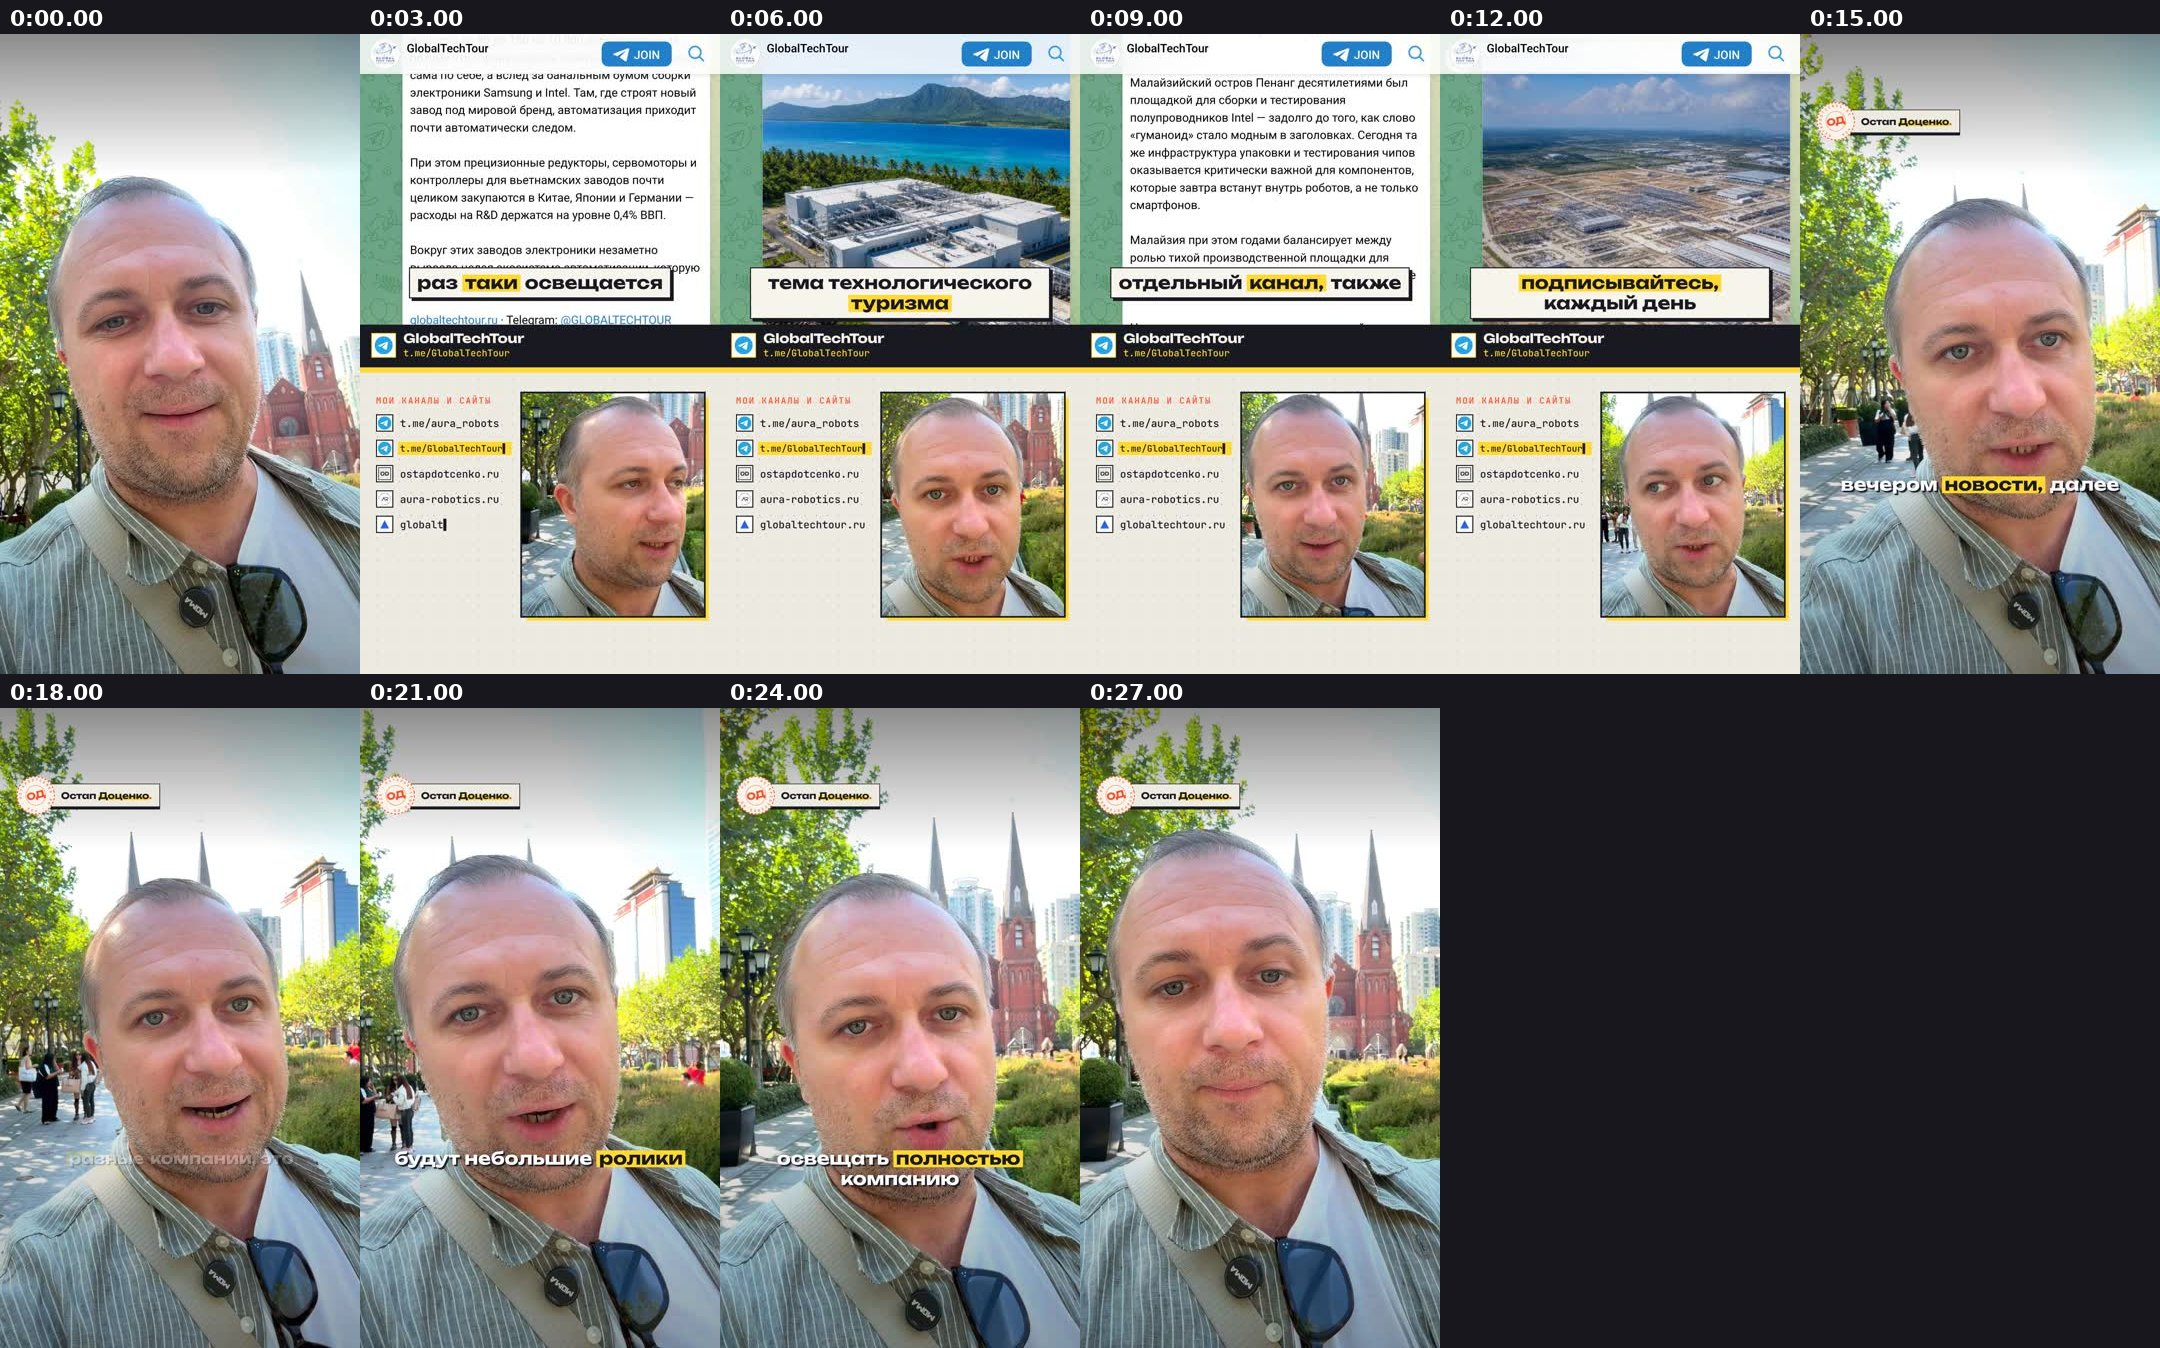
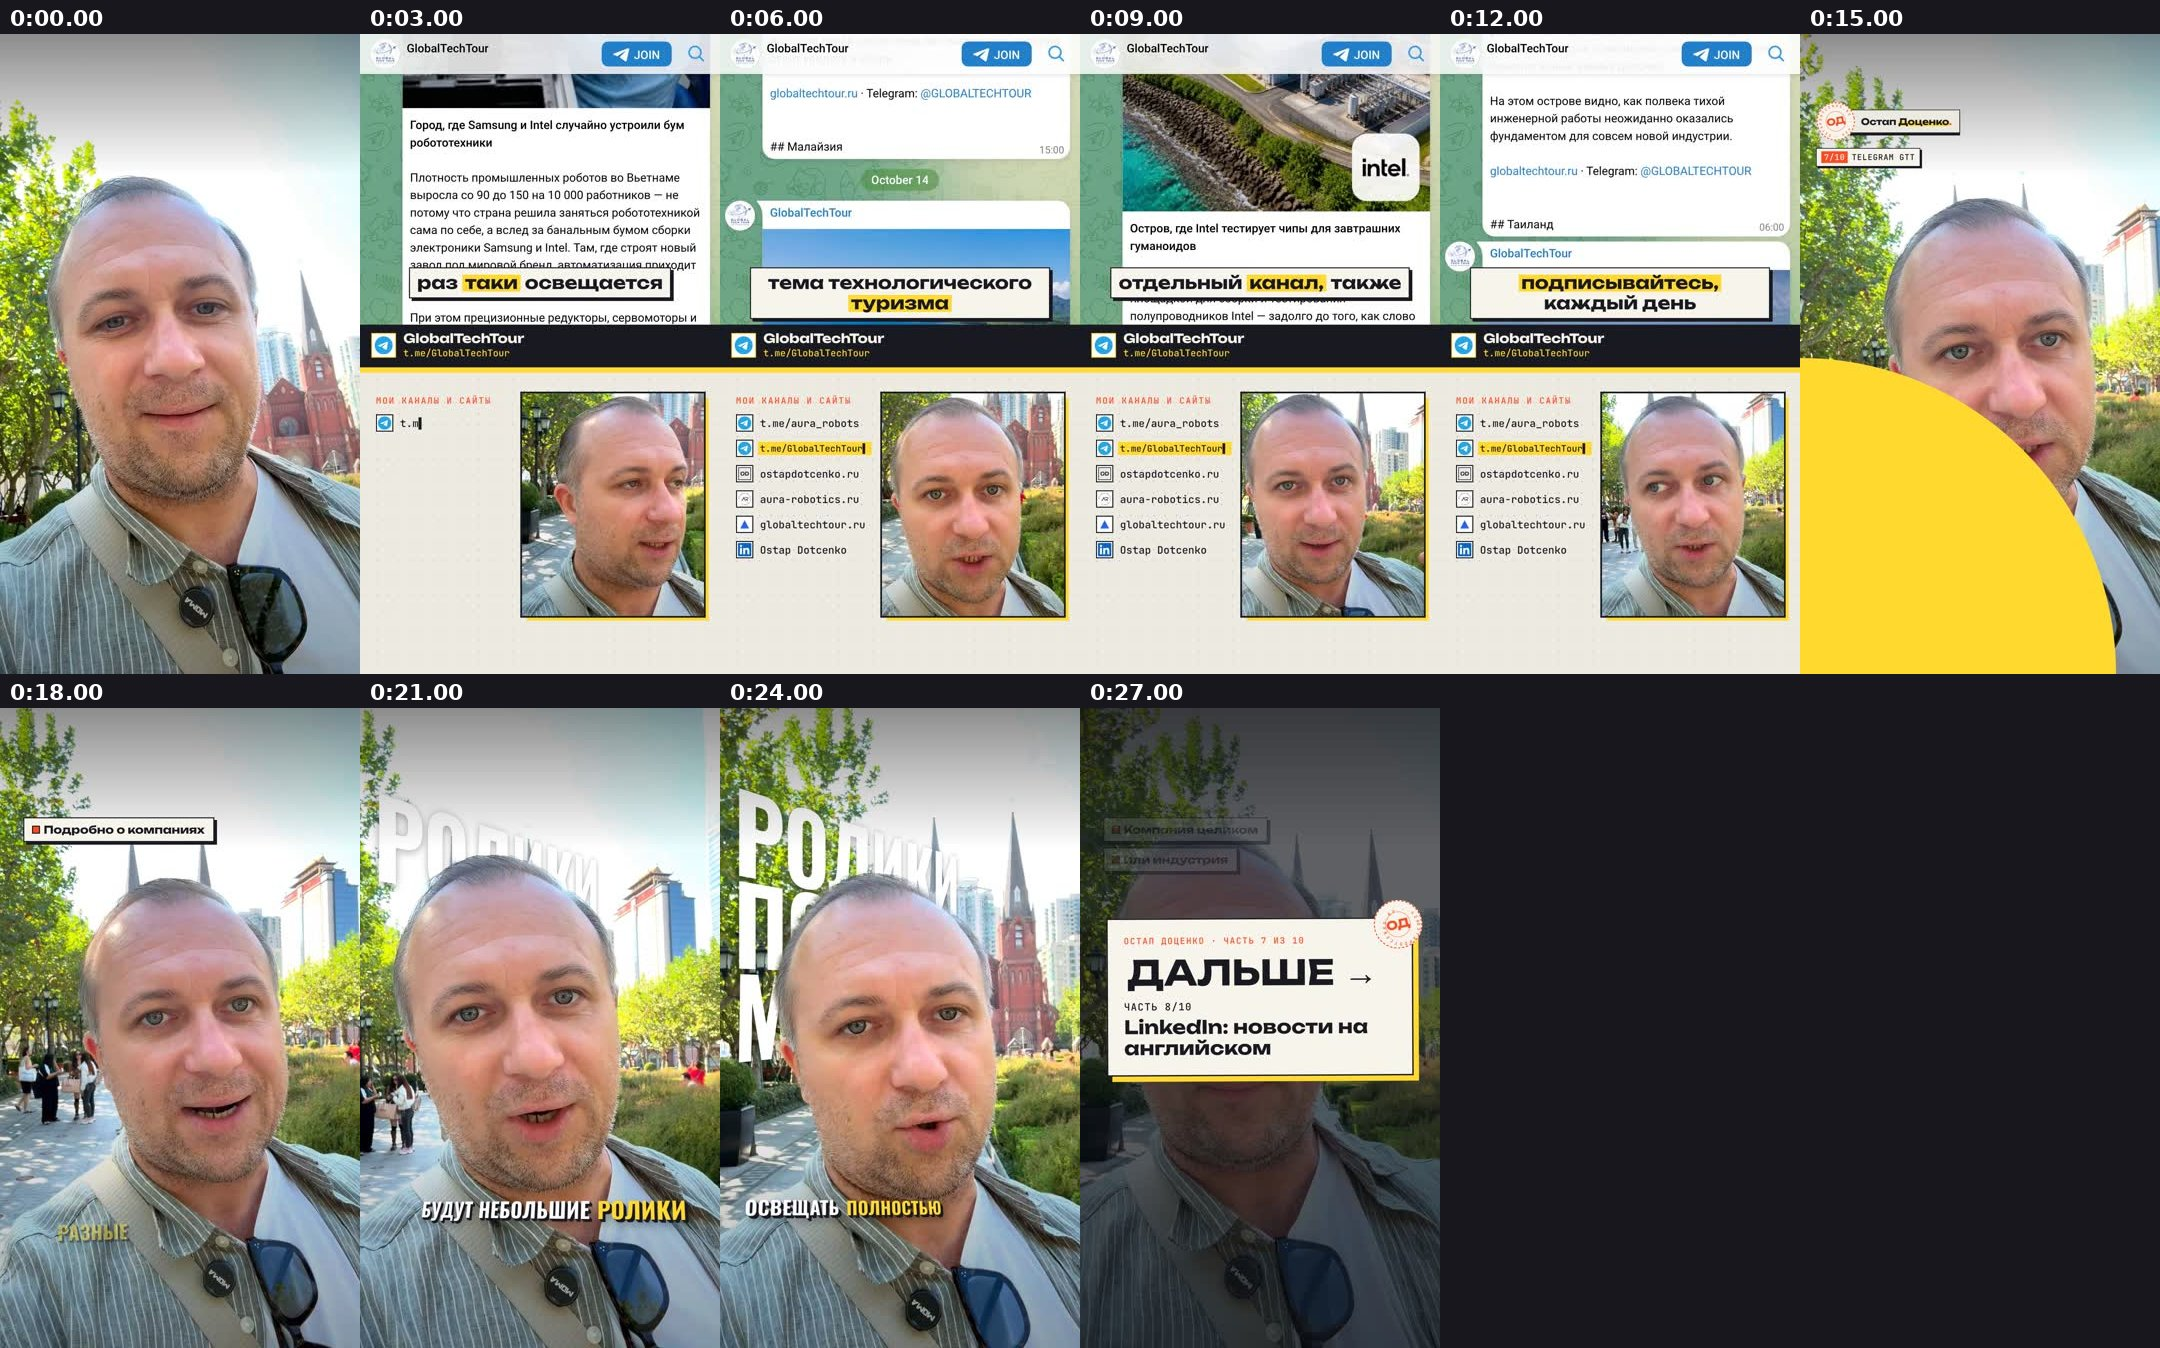
Хук wall: стена-скроллер — не больше двух строк над головой, последняя встаёт наверх; часть 7/10 (od-2), черновая версия
Claude-Session: https://claude.ai/code/session_01GWbvgKxue3PjjbbHEP4BVJ

diff --git a/reels-studio/src/components/HookTitle.tsx b/reels-studio/src/components/HookTitle.tsx
@@ -40,40 +40,53 @@ const ease = Easing.bezier(0.16, 1, 0.3, 1);
 // размер по длине строки, чтобы длинные слова влезали в кадр 1080: k — средняя ширина буквы в долях кегля
 const fit = (text: string, max: number, width: number, k: number) => Math.round(Math.min(max, width / Math.max(1, text.length * k)));
 
-// 3D-стена: строки въезжают снизу из глубины, весь столбик медленно едет вверх
-const Wall: React.FC<HookTitleProps> = ({lines, until}) => {
+// 3D-стена («3D scroller» из референса 1): строки въезжают снизу из глубины на стену в перспективе; на виду не больше двух
+// строк над головой — с новой строкой столбик прокручивается вверх, старая уходит (иначе широкие строки целиком прячутся
+// за головой, как было в первой версии серии 15.10.2026). top — верх окна стены.
+const WALL_LH = 0.9;
+const Wall: React.FC<HookTitleProps> = ({lines, until, top = 210}) => {
   const frame = useCurrentFrame();
   const {fps} = useVideoConfig();
   const t = frame / fps;
   const out = interpolate(t, [until - 0.35, until], [1, 0], {extrapolateLeft: "clamp", extrapolateRight: "clamp"});
+  const sizes = lines.map((l) => l.size ?? fit(l.text, 270, 960, 0.5));
+  const offs = sizes.map((_, j) => sizes.slice(0, j).reduce((a, x) => a + x * WALL_LH, 0));
+  const cur = lines.reduce((k, l, j) => (l.at <= t ? j : k), -1);
+  const shiftOf = (j: number) => offs[Math.max(0, j - 1)];
+  const step = (j: number) => interpolate(t, [lines[j].at, lines[j].at + 0.45], [0, 1], {extrapolateLeft: "clamp", extrapolateRight: "clamp", easing: ease});
+  const last = lines.length - 1;
+  // через 0,8 с после последней строки столбик делает ещё шаг: последняя строка встаёт наверх и видна целиком
+  const fin = lines.length > 1 ? interpolate(t, [lines[last].at + 0.8, lines[last].at + 1.2], [0, 1], {extrapolateLeft: "clamp", extrapolateRight: "clamp", easing: ease}) : 0;
+  const shift = (cur <= 0 ? 0 : shiftOf(cur - 1) + (shiftOf(cur) - shiftOf(cur - 1)) * step(cur)) + (offs[last] - shiftOf(last)) * fin;
   return (
-    <AbsoluteFill style={{perspective: 900, perspectiveOrigin: "0% 45%", opacity: out}}>
+    <AbsoluteFill style={{perspective: 900, perspectiveOrigin: "0% 35%", opacity: out}}>
       <div
         style={{
           position: "absolute",
-          left: 40,
-          top: 300,
+          left: 48,
+          top,
           width: 1000,
           transformOrigin: "0% 50%",
-          rotate: "y 24deg",
-          translate: `0px ${interpolate(t, [0, until], [40, -90])}px`,
+          rotate: "y 18deg",
+          translate: `0px ${-shift}px`,
         }}
       >
         {lines.map((l, i) => {
           const k = interpolate(t, [l.at, l.at + 0.45], [0, 1], {extrapolateLeft: "clamp", extrapolateRight: "clamp", easing: ease});
+          const leave = i + 2 < lines.length ? step(i + 2) : i === last - 1 ? fin : 0; // строку на две выше новой убираем
           return (
             <div
               key={i}
               style={{
                 fontFamily: oswald.fontFamily,
                 fontWeight: 700,
-                fontSize: l.size ?? fit(l.text, 330, 980, 0.5),
-                lineHeight: 0.86,
+                fontSize: sizes[i],
+                lineHeight: WALL_LH,
                 letterSpacing: "-0.01em",
                 textTransform: "uppercase",
                 color: "#FFFFFF",
-                textShadow: "0 6px 30px rgba(0,0,0,0.35)",
-                opacity: k,
+                textShadow: "5px 5px 0 rgba(25,25,34,0.55), 0 8px 30px rgba(0,0,0,0.35)",
+                opacity: k * (1 - leave),
                 translate: `0px ${(1 - k) * 160}px`,
                 scale: String(0.85 + 0.15 * k),
                 transformOrigin: "0% 100%",

diff --git a/reels-studio/CLAUDE.md b/reels-studio/CLAUDE.md
@@ -510,8 +510,10 @@ nod, scan, shrug`. Превью логотипа и всех жестов — к
 Пользователь прислал два ролика-референса (`source-videos/референсы-эффекты/2026-10-15/`): «извлечь эффекты для наших
 дальнейших видео… попробуй текст в 3D-перспективе на стене, заголовок за головой спикера, смешение жирного гротеска и
 курсива — покажи варианты». Компонент `src/components/HookTitle.tsx` (`variant`):
-- `wall` — узкий гротеск Oswald 700 (330 px, капс) на «стене» в 3D-перспективе слева (`rotate: y 24deg`), строки въезжают
-  снизу из глубины, столбик медленно едет вверх («3D scroller» из CapCut-референса), часть стены уходит за голову;
+- `wall` — узкий гротеск Oswald 700 (до 270 px, капс) на «стене» в 3D-перспективе (`rotate: y 18deg`) над головой:
+  строки въезжают снизу из глубины, на виду не больше двух — с новой строкой столбик прокручивается вверх («3D scroller»
+  из CapCut-референса), в конце последняя строка встаёт наверх и видна целиком (в первой версии широкие строки целиком
+  прятались за головой — исправлено 15.10.2026);
 - `behind` — заголовок над головой и **за ней** (выбран пользователем): первое слово огромным жирным гротеском (Unbounded 800,
   400 px, жёлтый с чернильной жёсткой тенью), «штамп» с пружиной. Продолжение — **столбиками** `columns`
   (`[{text, at, side: "left"|"right", step?, x?}]`): буквы сверху вниз падают по одной (шаг `LETTER_STEP` 0,14 с) по бокам
